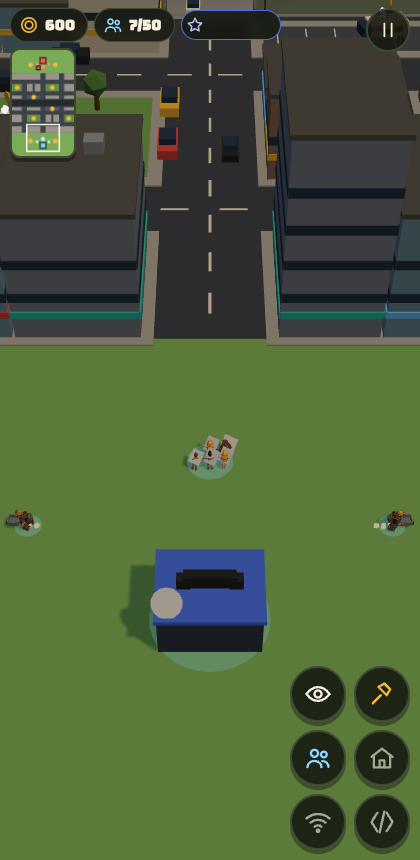
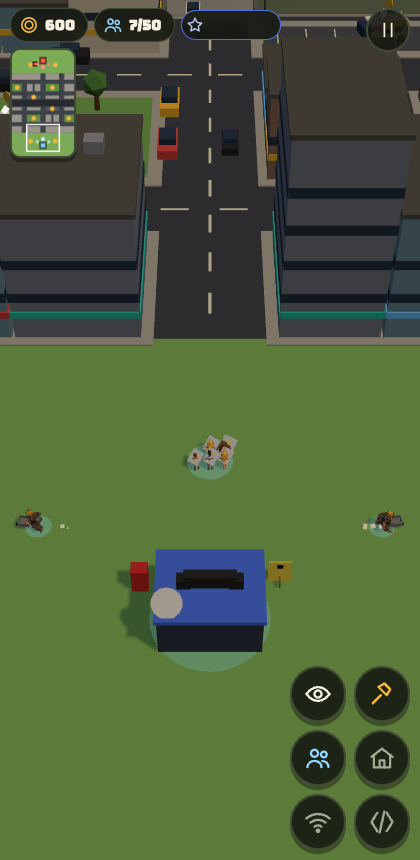
B94: Nerds base dressing round the Game Shop: a cosplay photo-op cutout with a face hole, a red vending machine with blinking lights, a spaghetti of coloured cables across the lot and a folding table with three dice
Claude-Session: https://claude.ai/code/session_01FXzpagnksiDmMAqP3MTiXJ

diff --git a/src/render/models.js b/src/render/models.js
@@ -2,7 +2,7 @@
 // SWAP POINT FOR REAL ART: replace makeMember / bldMesh / nodeMesh bodies with GLB clones.
 // Keep the same contract: return a THREE.Group, feet at y=0, facing +z, roughly to the scale below
 // (humans ~1.6 m, monster truck ~3 m long). userData.legs (optional) = [leftLeg, rightLeg] for walk swing.
-import { THREE, box, cyl, mat } from './scene.js?v=93';
+import { THREE, box, cyl, mat } from './scene.js?v=94';
 
 export const FC = {
   bw: { main: 0xe8792b, dark: 0x5a3a22, skin: 0xf2c9a0, alt: 0x3d5a80, hair: 0x4a2e1a },
@@ -233,6 +233,12 @@ export function bldMesh(kind, f) {
       mesh.add(box(3, 1, 0.6, 0x2a2a2a, 0, 4.1, 0), box(0.8, 0.8, 0.62, 0x2a2a2a, -1.5, 3.9, 0), box(0.8, 0.8, 0.62, 0x2a2a2a, 1.5, 3.9, 0));
       led(0.9, 4.2, 0.32, 0xff3030); led(1.2, 4.0, 0.32, 0x3aff5a); led(-1.0, 4.1, 0.32, C.alt);
       const dish = cyl(0.9, 0.2, 0.3, 0xdddddd, 2.4, 4.0, -1.5, 14); dish.rotation.x = -0.8; mesh.add(dish);
+      // Block dressing: a cosplay photo-op cutout (face hole), a glowing vending machine, cable spaghetti and a folding table with dice.
+      mesh.add(box(1.4, 2, 0.08, C.alt, -4.2, 1, 2.6), box(0.36, 0.36, 0.1, 0x1b1d24, -4.2, 1.55, 2.6), box(1.2, 0.5, 0.09, C.main, -4.2, 0.6, 2.62), box(0.1, 0.6, 0.5, 0x8a6a3e, -4.2, 0.3, 2.3));
+      mesh.add(box(1, 2, 0.8, 0xc62f2f, 4.2, 1, 2.2)); led(4.2, 1.3, 2.62, 0x9fd6ff); led(4.0, 1.0, 2.62, C.alt); led(4.4, 0.7, 2.62, 0x3aff5a);
+      for (let i = 0; i < 6; i++) { const c = cyl(0.04, 0.04, 2.4, [0x111111, 0x2255aa, 0xd64545, 0xf2e14c][i % 4], 1 + i * 0.25, 0.04, 2.9 + Math.sin(i) * 0.3, 5); c.rotation.z = Math.PI / 2; c.rotation.y = (i - 2.5) * 0.25; mesh.add(c); }
+      mesh.add(box(1.6, 0.06, 0.8, 0xdddddd, -1.8, 0.75, 3.4), box(0.05, 0.75, 0.05, 0x666666, -2.5, 0.37, 3.1), box(0.05, 0.75, 0.05, 0x666666, -1.1, 0.37, 3.7));
+      for (const [x, z, c] of [[-2, 3.3, 0xff3030], [-1.7, 3.5, 0x3aff5a], [-1.5, 3.25, C.alt]]) { const d = box(0.14, 0.14, 0.14, c, x, 0.86, z); d.rotation.y = x * 3; mesh.add(d); }
     } else if (kind === 'depot') { // Server Rack: a black rack with rows of blinking LEDs
       mesh.add(box(2.4, 2.4, 2, 0x1b1d24, 0, 1.2), box(2.5, 0.2, 2.1, C.main, 0, 2.5));
       for (let r = 0; r < 4; r++) for (let c2 = 0; c2 < 4; c2++) led(-0.75 + c2 * 0.5, 0.5 + r * 0.5, 1.02, [0x3aff5a, 0x3aff5a, C.alt, 0x5aa9e6][(r + c2) % 4]);

diff --git a/src/main.js b/src/main.js
@@ -1,22 +1,22 @@
 // Entry point: wires sim + render + input + UI and runs the fixed-step loop.
-import { renderer, scene, camera, followSun, THREE, setTimeOfDay } from './render/scene.js?v=93';
-import { buildWorld, updateWorld, setDusk } from './render/world.js?v=93';
-import { syncRender, clearRender, bump } from './render/sync.js?v=93';
-import { handleEvents, updateFx, clearFx } from './fx/fx.js?v=93';
-import { newSim, getSim, step } from './sim/sim.js?v=93';
-import { TICK } from './config/factions.js?v=93';
-import { CAM, applyCam, resetCam, onResize } from './camera/camera.js?v=93';
-import { initInput, lockPageZoom } from './input/input.js?v=93';
-import { refreshHUD, resetHUD, updatePlaceBar } from './ui/hud.js?v=93';
-import { resetUI } from './ui/state.js?v=93';
-import { fillIcons, svg } from './ui/icons.js?v=93';
-import { noteAlerts, updateAlert, clearAlert } from './ui/alert.js?v=93';
-import { updateMinimap } from './ui/minimap.js?v=93';
-import { isMuted, setMuted } from './fx/sfx.js?v=93';
-import { loadChars } from './render/chars.js?v=93';
-import { FC } from './render/models.js?v=93';
+import { renderer, scene, camera, followSun, THREE, setTimeOfDay } from './render/scene.js?v=94';
+import { buildWorld, updateWorld, setDusk } from './render/world.js?v=94';
+import { syncRender, clearRender, bump } from './render/sync.js?v=94';
+import { handleEvents, updateFx, clearFx } from './fx/fx.js?v=94';
+import { newSim, getSim, step } from './sim/sim.js?v=94';
+import { TICK } from './config/factions.js?v=94';
+import { CAM, applyCam, resetCam, onResize } from './camera/camera.js?v=94';
+import { initInput, lockPageZoom } from './input/input.js?v=94';
+import { refreshHUD, resetHUD, updatePlaceBar } from './ui/hud.js?v=94';
+import { resetUI } from './ui/state.js?v=94';
+import { fillIcons, svg } from './ui/icons.js?v=94';
+import { noteAlerts, updateAlert, clearAlert } from './ui/alert.js?v=94';
+import { updateMinimap } from './ui/minimap.js?v=94';
+import { isMuted, setMuted } from './fx/sfx.js?v=94';
+import { loadChars } from './render/chars.js?v=94';
+import { FC } from './render/models.js?v=94';
 
-export const BUILD = 93; // written by `npm run bump`
+export const BUILD = 94; // written by `npm run bump`
 lockPageZoom();
 fillIcons();
 buildWorld();

diff --git a/index.html b/index.html
@@ -6,7 +6,7 @@
 <meta name="viewport" content="width=device-width,initial-scale=1,maximum-scale=1,user-scalable=no,viewport-fit=cover">
 <link rel="preconnect" href="https://fonts.googleapis.com">
 <link rel="stylesheet" href="https://fonts.googleapis.com/css2?family=Bungee&family=Lilita+One&display=swap">
-<link rel="stylesheet" href="./src/ui/style.css?v=93">
+<link rel="stylesheet" href="./src/ui/style.css?v=94">
 <!-- No build step needed: GitHub Pages serves this file straight from main, so bare 'three' imports resolve here. -->
 <script type="importmap">
 { "imports": { "three": "./vendor/three/three.module.min.js", "three/examples/jsm/": "./vendor/three/jsm/" } }
@@ -34,7 +34,7 @@
 <div id="box"></div>
 <div id="holdRing" hidden></div>
 <div id="menu" class="overlay">
-  <h1>Culture <em>Wars</em><span>GREYBOX 04 · <b id="build">B93</b></span></h1>
+  <h1>Culture <em>Wars</em><span>GREYBOX 04 · <b id="build">B94</b></span></h1>
   <div class="diff" id="diff"><button type="button" data-d="0" aria-label="Easy"><span class="ic" data-i="star"></span></button><button type="button" data-d="1" class="on" aria-label="Normal"><span class="ic" data-i="star"></span><span class="ic" data-i="star"></span></button><button type="button" data-d="2" aria-label="Hard"><span class="ic" data-i="star"></span><span class="ic" data-i="star"></span><span class="ic" data-i="star"></span></button><i class="sep"></i><button type="button" class="mode" data-m="vs" aria-label="Versus"><span class="ic" data-i="home"></span></button><button type="button" class="mode" data-m="hill" aria-label="King of the Hill"><span class="ic" data-i="flag"></span></button></div>
   <div class="picks">
     <button class="pick" data-f="bw" type="button"><span class="ic" data-i="truck"></span>Backwoods<small>FEWER · TOUGHER</small></button>
@@ -63,6 +63,6 @@
   setTimeout(function () { if (!window.__cwBooted) show('Game script did not start (old cached file? wait a few minutes and reload)'); }, 8000);
 })();
 </script>
-<script type="module" src="./src/main.js?v=93" onerror="__cwLoadFail()"></script>
+<script type="module" src="./src/main.js?v=94" onerror="__cwLoadFail()"></script>
 </body>
 </html>

diff --git a/src/render/sync.js b/src/render/sync.js
@@ -1,18 +1,18 @@
 // Mirrors sim state into the scene every frame. Reads the sim, never writes to it.
-import { THREE, scene, camera, mat, box, basic, ringMesh, disposeObj, casts } from './scene.js?v=93';
-import { makeMember, bldMesh, nodeMesh, formation, FC } from './models.js?v=93';
-import { makeChar, charsReady, play, CAST } from './chars.js?v=93';
-import { emit } from '../fx/particles.js?v=93';
-import { bark } from '../fx/sfx.js?v=93';
-import { TICK } from '../config/factions.js?v=93';
-import { walkH } from '../map/layout.js?v=93';
-import { NODE_AMOUNT, BLD, BUILD_RADIUS, FACTIONS } from '../config/factions.js?v=93';
-import { CAM } from '../camera/camera.js?v=93';
+import { THREE, scene, camera, mat, box, basic, ringMesh, disposeObj, casts } from './scene.js?v=94';
+import { makeMember, bldMesh, nodeMesh, formation, FC } from './models.js?v=94';
+import { makeChar, charsReady, play, CAST } from './chars.js?v=94';
+import { emit } from '../fx/particles.js?v=94';
+import { bark } from '../fx/sfx.js?v=94';
+import { TICK } from '../config/factions.js?v=94';
+import { walkH } from '../map/layout.js?v=94';
+import { NODE_AMOUNT, BLD, BUILD_RADIUS, FACTIONS } from '../config/factions.js?v=94';
+import { CAM } from '../camera/camera.js?v=94';
 const fac0 = (S) => FACTIONS[S.players[0].f];
-import { Q, pl, getSim } from '../sim/sim.js?v=93';
-import { UI } from '../ui/state.js?v=93';
-import { fxConfetti, fxDeath } from '../fx/fx.js?v=93';
-import { lerpAngle } from '../util/math.js?v=93';
+import { Q, pl, getSim } from '../sim/sim.js?v=94';
+import { UI } from '../ui/state.js?v=94';
+import { fxConfetti, fxDeath } from '../fx/fx.js?v=94';
+import { lerpAngle } from '../util/math.js?v=94';
 // Selection rings take your faction colour, washed toward white so they still pop on any ground.
 const selCol = () => { const S = getSim(), f = S && S.players[0].f; return f ? new THREE.Color(FC[f].main).lerp(new THREE.Color(0xffffff), 0.35).getHex() : 0xffffff; };
 

diff --git a/src/ui/hud.js b/src/ui/hud.js
@@ -1,15 +1,15 @@
 // HUD: resource chips, context panel, command buttons, floating placement confirm, long-press labels.
 // Buttons are described as data ("specs") each refresh; the DOM is rebuilt only when the set of buttons changes.
 // Every action goes through sim.command(); Q.* is used only for instant feedback (shake, dim).
-import { svg } from './icons.js?v=93';
-import { UI, select, selSquads } from './state.js?v=93';
-import { getSim, pl, fac, Q, command, count, cpUsed, cpCap, hqOf } from '../sim/sim.js?v=93';
-import { BLD, BUILD_KINDS, TRAIN_SLOTS, UPG, REQ } from '../config/factions.js?v=93';
-import { CAM, toggleView, focus } from '../camera/camera.js?v=93';
-import { camera } from '../render/scene.js?v=93';
-import { walkH } from '../map/layout.js?v=93';
-import { THREE } from '../render/scene.js?v=93';
-import { showHint } from './hint.js?v=93';
+import { svg } from './icons.js?v=94';
+import { UI, select, selSquads } from './state.js?v=94';
+import { getSim, pl, fac, Q, command, count, cpUsed, cpCap, hqOf } from '../sim/sim.js?v=94';
+import { BLD, BUILD_KINDS, TRAIN_SLOTS, UPG, REQ } from '../config/factions.js?v=94';
+import { CAM, toggleView, focus } from '../camera/camera.js?v=94';
+import { camera } from '../render/scene.js?v=94';
+import { walkH } from '../map/layout.js?v=94';
+import { THREE } from '../render/scene.js?v=94';
+import { showHint } from './hint.js?v=94';
 
 const panelEl = document.getElementById('panel'), cmdEl = document.getElementById('cmd'), queueEl = document.getElementById('queue');
 const placeBar = document.getElementById('placeBar'), tipEl = document.getElementById('tip');

diff --git a/src/input/input.js b/src/input/input.js
@@ -4,13 +4,13 @@
 //   hold then drag  = box select
 //   2 fingers       = pinch zoom + twist to rotate + drag to pan
 //   mouse: right-drag = box select, wheel = zoom; keys WASD/arrows pan, Q/E rotate, V ghost cam, Esc cancel
-import { THREE, camera, canvas } from '../render/scene.js?v=93';
-import { walkH } from '../map/layout.js?v=93';
-import { getSim, command } from '../sim/sim.js?v=93';
-import { UI, select, selSquads } from '../ui/state.js?v=93';
-import { CAM, panBy, clampCam, toggleView, pxPerUnit } from '../camera/camera.js?v=93';
-import { fxMarker } from '../fx/fx.js?v=93';
-import { ack } from '../render/sync.js?v=93';
+import { THREE, camera, canvas } from '../render/scene.js?v=94';
+import { walkH } from '../map/layout.js?v=94';
+import { getSim, command } from '../sim/sim.js?v=94';
+import { UI, select, selSquads } from '../ui/state.js?v=94';
+import { CAM, panBy, clampCam, toggleView, pxPerUnit } from '../camera/camera.js?v=94';
+import { fxMarker } from '../fx/fx.js?v=94';
+import { ack } from '../render/sync.js?v=94';
 
 const ray = new THREE.Raycaster(), ndc = new THREE.Vector2(), tmp = new THREE.Vector3();
 export function groundAt(cx, cy) {

diff --git a/src/fx/fx.js b/src/fx/fx.js
@@ -1,12 +1,12 @@
 // Visual effects. Reads sim events, never changes the sim.
 // To add an effect for a new mechanic: emit S.events.push({k:'myThing', ...}) in the sim,
 // then add a case in handleEvents below.
-import { THREE, scene, mat, cyl, basic, disposeObj } from '../render/scene.js?v=93';
-import { walkH } from '../map/layout.js?v=93';
-import { sfx } from './sfx.js?v=93';
-import { shake, CAM } from '../camera/camera.js?v=93';
-import { FC } from '../render/models.js?v=93';
-import { emit, updateParticles, clearParticles, burstHit, burstShot, burstCoins } from './particles.js?v=93';
+import { THREE, scene, mat, cyl, basic, disposeObj } from '../render/scene.js?v=94';
+import { walkH } from '../map/layout.js?v=94';
+import { sfx } from './sfx.js?v=94';
+import { shake, CAM } from '../camera/camera.js?v=94';
+import { FC } from '../render/models.js?v=94';
+import { emit, updateParticles, clearParticles, burstHit, burstShot, burstCoins } from './particles.js?v=94';
 
 const fx = [];
 function addFx(obj, life, upd) { scene.add(obj); fx.push({ obj, life, t: 0, upd }); }

diff --git a/src/render/world.js b/src/render/world.js
@@ -1,9 +1,9 @@
 // Static city: streets, sidewalks, buildings, parks, freeway trench + overpasses, ambient traffic.
 // Built once from map/layout.js. Mostly InstancedMesh so it stays cheap on phones.
-import { THREE, scene, mat, box } from './scene.js?v=93';
-import { MAP, BLOCKS, TREES, PARKED, TRENCH, OVERPASSES, AVENUES, CROSS_STREETS, HOME_Z, inRect, walkH } from '../map/layout.js?v=93';
-import { hash } from '../util/math.js?v=93';
-import { emit } from '../fx/particles.js?v=93';
+import { THREE, scene, mat, box } from './scene.js?v=94';
+import { MAP, BLOCKS, TREES, PARKED, TRENCH, OVERPASSES, AVENUES, CROSS_STREETS, HOME_Z, inRect, walkH } from '../map/layout.js?v=94';
+import { hash } from '../util/math.js?v=94';
+import { emit } from '../fx/particles.js?v=94';
 
 const COL = {
   asphalt: 0x3d4148, sidewalk: 0xa8a49a, grass: 0x6f9e50, lawn: 0x7cab58, lot: 0x4b4f56, stripe: 0xe8e2c8,

diff --git a/src/sim/sim.js b/src/sim/sim.js
@@ -9,11 +9,11 @@
 import {
   TICK, START_CASH, BUILD_RADIUS, MAX_WORKERS, NODE_AMOUNT, GATHER_T, CARRY, BASE_INCOME, DEPOT_INCOME,
   COUNTER, REQ, UPG, UPT, BLD, FACTIONS,
-} from '../config/factions.js?v=93';
-import { MAP, NODES, BASES, walkH } from '../map/layout.js?v=93';
-import { markCircle, isBlocked, lineClear, nearestFree, findPath, blocked, cellOf, cellCenter, inGrid } from '../map/grid.js?v=93';
-import { mulberry32 } from '../util/math.js?v=93';
-import { aiStep } from './ai.js?v=93';
+} from '../config/factions.js?v=94';
+import { MAP, NODES, BASES, walkH } from '../map/layout.js?v=94';
+import { markCircle, isBlocked, lineClear, nearestFree, findPath, blocked, cellOf, cellCenter, inGrid } from '../map/grid.js?v=94';
+import { mulberry32 } from '../util/math.js?v=94';
+import { aiStep } from './ai.js?v=94';
 
 let S = null;
 export const getSim = () => S;

diff --git a/src/ui/minimap.js b/src/ui/minimap.js
@@ -1,8 +1,8 @@
 // Minimap, top-left under the resource chips. Fixed orientation: your base at the bottom (+z), enemy at the top.
 // Tap or drag on it to move the camera there. Static city is drawn once; units/buildings redraw ~10x a second.
-import { MAP, BLOCKS, TRENCH } from '../map/layout.js?v=93';
-import { CAM, focus } from '../camera/camera.js?v=93';
-import { getSim } from '../sim/sim.js?v=93';
+import { MAP, BLOCKS, TRENCH } from '../map/layout.js?v=94';
+import { CAM, focus } from '../camera/camera.js?v=94';
+import { getSim } from '../sim/sim.js?v=94';
 
 const cv = document.getElementById('mini'), ctx = cv.getContext('2d');
 const bg = document.createElement('canvas'), bctx = bg.getContext('2d');

diff --git a/src/ui/alert.js b/src/ui/alert.js
@@ -1,9 +1,9 @@
 // Under-attack alert: when something of yours is hit somewhere the camera is not looking, a red arrow pulses on
 // the screen edge pointing at it. Tap the arrow to fly there. Newest fight wins; it fades 5 s after the last hit.
-import { THREE, camera } from '../render/scene.js?v=93';
-import { walkH } from '../map/layout.js?v=93';
-import { focus } from '../camera/camera.js?v=93';
-import { svg } from './icons.js?v=93';
+import { THREE, camera } from '../render/scene.js?v=94';
+import { walkH } from '../map/layout.js?v=94';
+import { focus } from '../camera/camera.js?v=94';
+import { svg } from './icons.js?v=94';
 
 const el = document.getElementById('alert');
 el.innerHTML = svg('up');

diff --git a/src/render/chars.js b/src/render/chars.js
@@ -2,7 +2,7 @@
 // clips drives all of them: the clips come from three DONOR files and are retargeted onto each rig by bone name.
 // Nothing here is required: until the files load (or if they fail, e.g. the single-file artifact build) the
 // box placeholders in models.js are used, and sync.js swaps squads over once this reports ready.
-import { THREE } from './scene.js?v=93';
+import { THREE } from './scene.js?v=94';
 import { GLTFLoader } from 'three/examples/jsm/loaders/GLTFLoader.js';
 import { DRACOLoader } from 'three/examples/jsm/loaders/DRACOLoader.js';
 import { clone as skClone } from 'three/examples/jsm/utils/SkeletonUtils.js';
